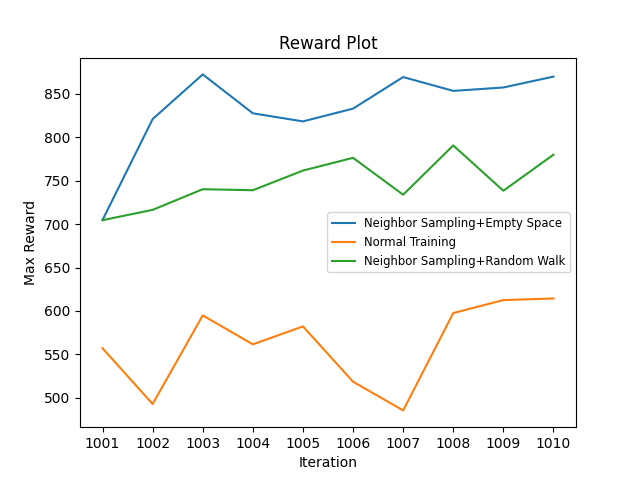
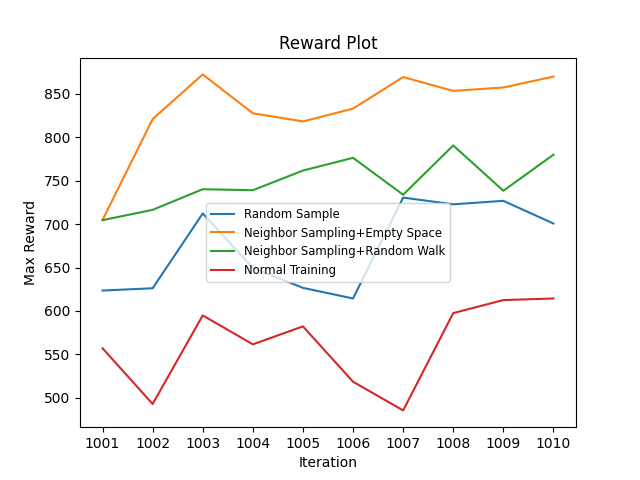
update

diff --git a/plots/plot_reward.py b/plots/plot_reward.py
@@ -22,6 +22,35 @@ x = np.arange(start_iteration+1, end_iteration+1, x_step_size)
 
 # -------------------------------------------------------
 
+# Load the rewards from the random sample directory
+
+# Loop through the directories and load the rewards
+directory = "../logs/Ant-v5/PPO_random_search"+iterationString
+print("------------------------------------")
+print("Working on random_sample directory")
+rewards = []
+try:
+    for filename in os.listdir(directory):
+        # Check if the filename starts with "results"
+        if filename.startswith('results'):
+            # print(filename)
+            # Load the rewards
+            results = np.load(directory + "/" + filename)
+            # Find the maximum reward
+            max_reward = np.max(results)
+            # Append the maximum reward to the rewards list
+            rewards.append(max_reward)
+
+    # Choose appropriate value from the rewards
+    rewards = rewards[::x_step_size]
+
+    # Plot the rewards
+    plt.plot(x, rewards, label="Random Sample")
+except:
+    print("Error in random sample directory")
+
+# -------------------------------------------------------
+
 # Load the rewards from the empty space directory
 
 # Loop through the directories and load the rewards
@@ -51,35 +80,6 @@ except :
 
 # -------------------------------------------------------
 
-# Load the rewards from the normal_train directory
-
-# Loop through the directories and load the rewards
-directory = "../logs/Ant-v5/PPO_normal_train"+iterationString
-print("------------------------------------")
-print("Working on normal_train directory")
-rewards = []
-try:
-    for filename in os.listdir(directory):
-        # Check if the filename starts with "results"
-        if filename.startswith('results'):
-            # print(filename)
-            # Load the rewards
-            results = np.load(directory + "/" + filename)
-            # Find the maximum reward
-            max_reward = np.max(results)
-            # Append the maximum reward to the rewards list
-            rewards.append(max_reward)
-
-    # Choose appropriate value from the rewards
-    rewards = rewards[::x_step_size]
-
-    # Plot the rewards
-    plt.plot(x, rewards, label="Normal Training")
-except:
-    print("Error in normal train directory")
-
-# -------------------------------------------------------
-
 # Load the rewards from the nn_random_walk directory
 
 # Loop through the directories and load the rewards
@@ -106,6 +106,35 @@ try:
     plt.plot(x, rewards, label="Neighbor Sampling+Random Walk")
 except:
     print("Error in nn random walk directory")
+
+# -------------------------------------------------------
+
+# Load the rewards from the normal_train directory
+
+# Loop through the directories and load the rewards
+directory = "../logs/Ant-v5/PPO_normal_train"+iterationString
+print("------------------------------------")
+print("Working on normal_train directory")
+rewards = []
+try:
+    for filename in os.listdir(directory):
+        # Check if the filename starts with "results"
+        if filename.startswith('results'):
+            # print(filename)
+            # Load the rewards
+            results = np.load(directory + "/" + filename)
+            # Find the maximum reward
+            max_reward = np.max(results)
+            # Append the maximum reward to the rewards list
+            rewards.append(max_reward)
+
+    # Choose appropriate value from the rewards
+    rewards = rewards[::x_step_size]
+
+    # Plot the rewards
+    plt.plot(x, rewards, label="Normal Training")
+except:
+    print("Error in normal train directory")
 
 # -------------------------------------------------------
 
